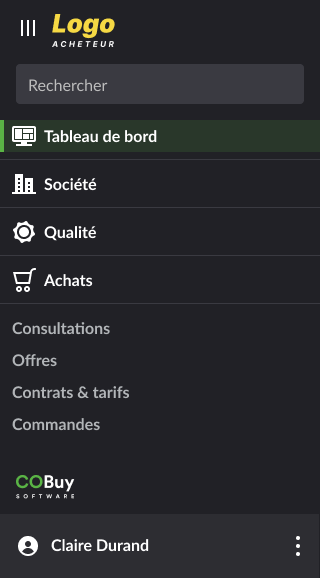
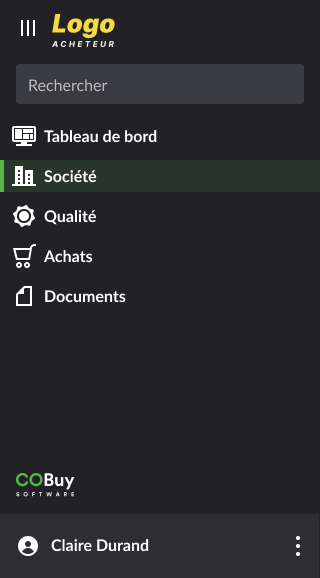
Mise à jour sprint 3

diff --git a/articles/sprints.s3-2021.md b/articles/sprints.s3-2021.md
@@ -17,9 +17,7 @@ La navigation est adaptée et simplifiée. L'en-tête affiche le logo de l'achet
 
 ![menu](assets/images/s3-menu.png)
 
-Les entrées `Tableau de bord`, `Société` et `Qualité` affichent directement les pages correspondantes.
-
-Ce n'est pas le cas des entrées sous `Achats`, où l'utilisateur passera par une [vue Liste](gabarits.listes.html) : on doit donc afficher l'arbre à cet endroit. Cela est nécessaire pour ne pas introduire de lourdeur au niveau de la navigation.
+Contrairement à l'application côté *Acheteur* Les entrées affichent directement les pages correspondantes.
 
 ### Tableau de bord ###
 
@@ -56,37 +54,36 @@ Dans l'[*en-tête*](gabarits.details.html#en-tête) de la vue détail de la sect
 
 ![col-gauche](assets/images/s3-portail-300.png)
 
-Le principe est similaire our la section *Qualité*, sans les informations générales telles que `pays`, `devise`, etc.
+Le principe est similaire pour la section *Qualité*, sans les informations générales telles que `pays`, `devise`, etc.
 
 ![col-gauche](assets/images/s3-portail-400.png)
 
 > On déterminera s'il est nécessaire d'afficher au fournisseur les informations *ERP*, *Utilisateur* ou *site*, ces informations internes à l'acheteur n'étant pas forcément pertinentes ou nécessaires pour le fournisseur.
 
 ### Achats ###
-L'arbre de navigation est donc déployé, et toute la section est structuré sur le principe suivant 
+La section Achats possède un comportement hybride.
 
 ```text
-+--------+       +-------------+       +--------------+       +---------------+
-|  MENU  |  ==>  |  VUE LISTE  |  ==>  |  VUE DÉTAIL  |  ==>  |  VUE LIGNE *  |
-+--------+       +-------------+       +--------------+       +---------------+
++--------+       +---------------+       +--------------+       +---------------+
+|  MENU  |  ==>  |   EN-TÊTE     |       |   EN-TÊTE    |  ==>  |  VUE LIGNE ** |
++--------+       +---------------+       +--------------+       +---------------+
+                 | LISTE OBJETS *|  ==>  | DÉTAIL OBJET |
+                 +---------------+       +--------------+
 
-* Dans le case d'une ligne d'offre ou de contrat e.g.
+* Les objets peuvent être des offres, par ex.
+** Dans le cas d'une ligne d'offre ou de contrat e.g.
 ```
-
-L'item Achats n'est pas cliquable, ce sont ses sous-entrées qui affichent les listes correspondantes (voir le [prototype](sprints.s3-2021.html#lien-prototype)). On veillera, dans les listes, à retirer les colonnes fournisseur, et d'une manière générale toutes les données qui doublonnent et n'ont pas de sens dans ce contexte de portail fournisseur (les données ne concernant qu'un seul et unique founisseur).
 
 L'exemple d'accès aux pages de [détails](gabarits.details.html) est donné pour l'entrée `Offres` du menu.
 
 ##### Principe #####
-###### Vue liste ######
+###### Vue liste objets ######
 La liste affiche toutes les offres soumises par le fournisseur
-
 
 ![offres](assets/images/s3-portail-600.png)
 
-###### Vue détail ######
-Au clic sur une offre, on affiche celle-ci, ainsi que son détail (ici, ses lignes d'offre)
-
+###### Vue Liste objets ######
+Au clic sur une offre, on affiche celle-ci, ainsi que son détail (ici, ses lignes d'offre). La partie principale (sous l'en-tête) possède son propre en-tête. Celui-ci récapitule les informations de l'offre. Il permet également de revenir à la liste complète des offres (`Revenir à la liste`).
 
 ![offres](assets/images/s3-portail-601.png)
 
